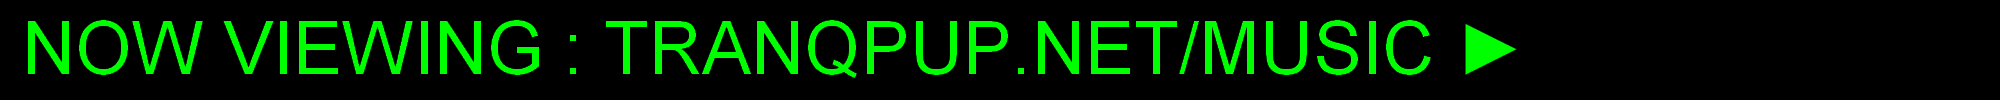
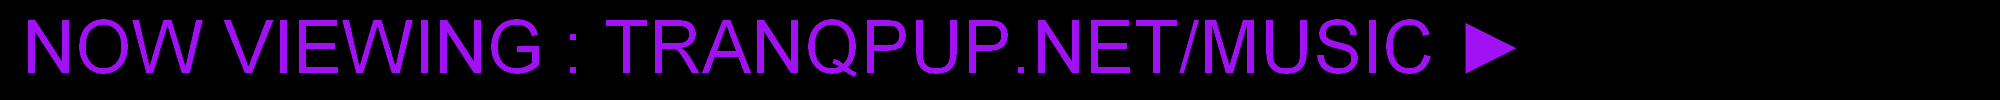
added photography page, made other updates

Changed region(s): [[0.0, 0.18, 0.775, 0.75]]

diff --git a/my_photos.html b/my_photos.html
@@ -3,7 +3,7 @@
 <head>
     <meta charset="UTF-8">
     <meta name="viewport" content="width=device-width, initial-scale=1.0">
-    <title>About</title>
+    <title>Photography</title>
 	<link rel="icon" type="image/x-icon" href="images/favicon.ico">
     <style>
         body {
@@ -18,7 +18,7 @@
             overflow-x: hidden;
         }
         header {
-            background: linear-gradient(to right, #0000FF, #000000);
+            background: linear-gradient(to right, #f32f60, #000000);
             color: white;
             text-align: center;
             padding: 0px;
@@ -50,7 +50,7 @@
 			overflow-y: hidden;
         }
         .content {
-            background-image: url('img/back.png');
+            background-image: url('images/back.png');
             padding: 20px;
             flex: 1;
             margin: 0 20%;
@@ -59,12 +59,12 @@
         }
         .post {
             margin-bottom: 20px;
-            border: 2px solid #0000FF;
+            border: 2px solid #f32f60;
             padding: 20px;
             background-color: #000;
         }
         .post h2 {
-            color: #0000FF;
+            color: #f32f60;
             margin-top: 0;
 			font-size: 16px;
         }
@@ -75,8 +75,12 @@
             float: left;
             margin-right: 15px;
         }
+		.image-center {
+            float: center;
+            margin-right: 15px;
+        }
         footer {
-            background: linear-gradient(to right, #000000, #0000FF);
+            background: linear-gradient(to right, #000000, #f32f60);
             color: white;
             text-align: center;
             padding: 10px 0;
@@ -84,14 +88,14 @@
         img {
             max-width: 100%;
             height: auto;
-            border: 3px solid #0000FF;
+            border: 3px solid #f32f60;
             margin-bottom: 10px;
         }
 		nav {
             display: flex;
             justify-content: center;
             background-color: #000;
-			border: 3px solid #0000FF;
+			border: 3px solid #f32f60;
             padding: 10px;
         }
         nav a {
@@ -102,12 +106,6 @@
         nav a:hover {
             color: #ddd;
         }
-		ul {
-			list-style-type: none;
-			padding: 10px 0 !important;
-			padding-left: 20px !important;
-		}
-
     </style>
 </head>
 
@@ -133,32 +131,26 @@
 		
 		
         <section class="content">
-			<center><img src="images/aboutbanner.png"></center>
-			<p></p>
-			
-			
-			<article class="post">
-                
-				<h2>5.26.2025 ► ABOUT ME? WHAT ABOUT YOU?</h2>
-				<p>
-				hi my name is angel, welcome to my website!
-				<br>
-				i'm 20 and i make stuff, i made this site as a catch-all for whatever
-				 projects i'm working on. <br> <br>
-				 <img src="images/selfie.png" class="image-left" width="450">
-				  here's some of my interests!
-				<ul>
-				  <li><strong>Music ►</strong> Sonic Youth, SWANS, TR/ST, Car Seat Headrest, Suishou no Fune, Polvo, Black Country New Road, Bjork, Bruce Springsteen, Cocteau Twins, Far Apart, Have a Nice Life, The Hotelier, JPEGMAFIA, Julie, King Woman, Kitty Craft, Ladytron, Les Rallizes Denudes, and like a freakin' ton more</li>
-				  <br>
-				  <li><strong>Movies/TV ►</strong> Everything Everywhere All At Once, I Saw The TV Glow, Common Side Effects, Mr Robot, Daria, MTV's Downtown, Gummo, Perfect Days, Johnny Mnemonic, Tank Girl, Ghost World</li>
-				  <br>
-				  <li><strong>Books ►</strong> A Tale For The Time Being by Ruth Ozeki (MUST READ!!), Cyberia by Douglas Rushkoff, The Teachings of Don Juan by Carlos Castaneda (read the whole series with Don Juan too, i'm currently on book 4), The Way of Zen by Alan Watts, The Book of Five Rings by Miyamoto Musashi, Permanent Record by Edward Snowden</li>
-				  <br>
-				  <li><strong>Hobbies ►</strong> songwriting, singing, bass and guitar, drawing, painting, skateboarding, web stuff (yes hello), game design, 3d animation</li>
-				</ul> 
-				</p>
-				
-            </article>			      
+			<center><img src="images/photobanner.png">
+			<img src="images/photography/1.jpg" class="image-center" width="500">
+			<img src="images/photography/2.jpg" class="image-center" width="500">
+			<img src="images/photography/3.jpg" class="image-center" width="300">
+			<img src="images/photography/4.jpg" class="image-center" width="300">
+			<img src="images/photography/5.jpg" class="image-center" width="300">
+			<img src="images/photography/6.jpg" class="image-center" width="500">
+			<img src="images/photography/7.jpg" class="image-center" width="500">
+			<img src="images/photography/8.jpg" class="image-center" width="500">
+			<img src="images/photography/9.jpg" class="image-center" width="300">
+			<img src="images/photography/10.jpg" class="image-center" width="300">
+			<img src="images/photography/11.jpg" class="image-center" width="500">
+			<img src="images/photography/12.jpg" class="image-center" width="500">
+			<img src="images/photography/13.jpg" class="image-center" width="500">
+			<img src="images/photography/14.jpg" class="image-center" width="300">
+			<img src="images/photography/15.jpg" class="image-center" width="300">
+			<img src="images/photography/16.jpg" class="image-center" width="300">
+			<img src="images/photography/17.jpg" class="image-center" width="700">
+			</center>
+			<p></p>		      
 			
 			
 			

diff --git a/my_music.html b/my_music.html
@@ -18,7 +18,7 @@
             overflow-x: hidden;
         }
         header {
-            background: linear-gradient(to right, #00FF00, #000000);
+            background: linear-gradient(to right, #a011f3, #000000);
             color: white;
             text-align: center;
             padding: 0px;
@@ -59,12 +59,12 @@
         }
         .post {
             margin-bottom: 20px;
-            border: 2px solid #00FF00;
+            border: 2px solid #a011f3;
             padding: 20px;
             background-color: #000;
         }
         .post h2 {
-            color: #00FF00;
+            color: #a011f3;
             margin-top: 0;
 			font-size: 16px;
         }
@@ -75,8 +75,12 @@
             float: left;
             margin-right: 15px;
         }
+		.image-right {
+            float: right;
+            margin-right: 15px;
+        }
         footer {
-            background: linear-gradient(to right, #000000, #00FF00);
+            background: linear-gradient(to right, #000000, #a011f3);
             color: white;
             text-align: center;
             padding: 10px 0;
@@ -84,14 +88,14 @@
         img {
             max-width: 100%;
             height: auto;
-            border: 3px solid #00FF00;
+            border: 3px solid #a011f3;
             margin-bottom: 10px;
         }
 		nav {
             display: flex;
             justify-content: center;
             background-color: #000;
-			border: 3px solid #00FF00;
+			border: 3px solid #a011f3;
             padding: 10px;
         }
         nav a {
@@ -132,14 +136,13 @@
 			
 			
 			<article class="post">
-                
 				<h2>5.27.2025 ► HELLO, NEBRASKA, HOW HAVE YOU BEEN?</h2>
 				<p>
 				<img src="images/nebraskatape.png" class="image-left" width="200">
 				<strong>HELLO, NEBRASKA ► Recorded April/May 2025
 				<br>
 				<br>
-				TRACKLIST ► A1. Hello, Nebraska / A2. Vague As Always / A3. How To Hold Onto Everything / A4. Dog Dance / B1. When The Sky Turned green
+				TRACKLIST ► A1. Hello, Nebraska / A2. Vague As Always / A3. How To Hold Onto Everything / A4. Dog Dance / B1. When The Sky Turned Green
 				/ B2. Love Hurts / B3. When / B4. In Heaven / B5. Bye, Me
 				</strong>
 				<br>
@@ -161,8 +164,41 @@
 				<br>
 				<br>
 				</p>
-				
-            </article>			      
+            </article>		
+
+			<article class="post">
+				<h2>5.27.2025 ► NA-MING? NAMING WHAT?</h2>
+				<p>
+				<img src="images/namingtape.png" class="image-left" width="200">
+				<strong>NA-MING ► Recorded February 8, 2025
+				<br>
+				<br>
+				TRACKLIST ► 1. How Much Longer / 2. Freak / 3. If You Just Shut Up And Have A Good Time / 4. Snag / 5. On Sunday
+				/ 6. Your Sink is Busted / 7. The End
+				</strong>
+				<br>
+				<br>
+				<i>Na-Ming</i> was done in a few hours just for fun. i got snowed in and had to call out of work so i was like yeah why not make some random music? this tape uses the same
+				mix for some tracks i made for "bands that don't exist pt. 2", a little project that i believe only ended up being like 3 tracks lol
+				<br>
+				<br>
+				with the cover being ripped from a notebook there isn't much thematically, the songs are just kinda whatever i felt like making in that moment lol
+				<br>
+				<br>
+				while i've always thought the mix sounds super flat, one of my friends said it's the best i've ever made..
+				<br>i guess the jury is still out on that one ┐(´ー｀)┌
+				<br>
+				<a href="https://animalmiracle.bandcamp.com/album/na-ming">
+					<img style="border:1px solid #fff" src="images/buyalbum.png" alt="buy this album" class="image-right" width="200">
+				</a>
+				<a href="https://www.youtube.com/watch?v=k7yIFNj_U9o">
+					<img style="border:1px solid #fff" src="images/streamingbutton.png" alt="stream this album" class="image-right" width="200">
+				</a>
+				<br>
+				<br>
+				<br>
+				</p>
+            </article>	
 			
 			
 			
